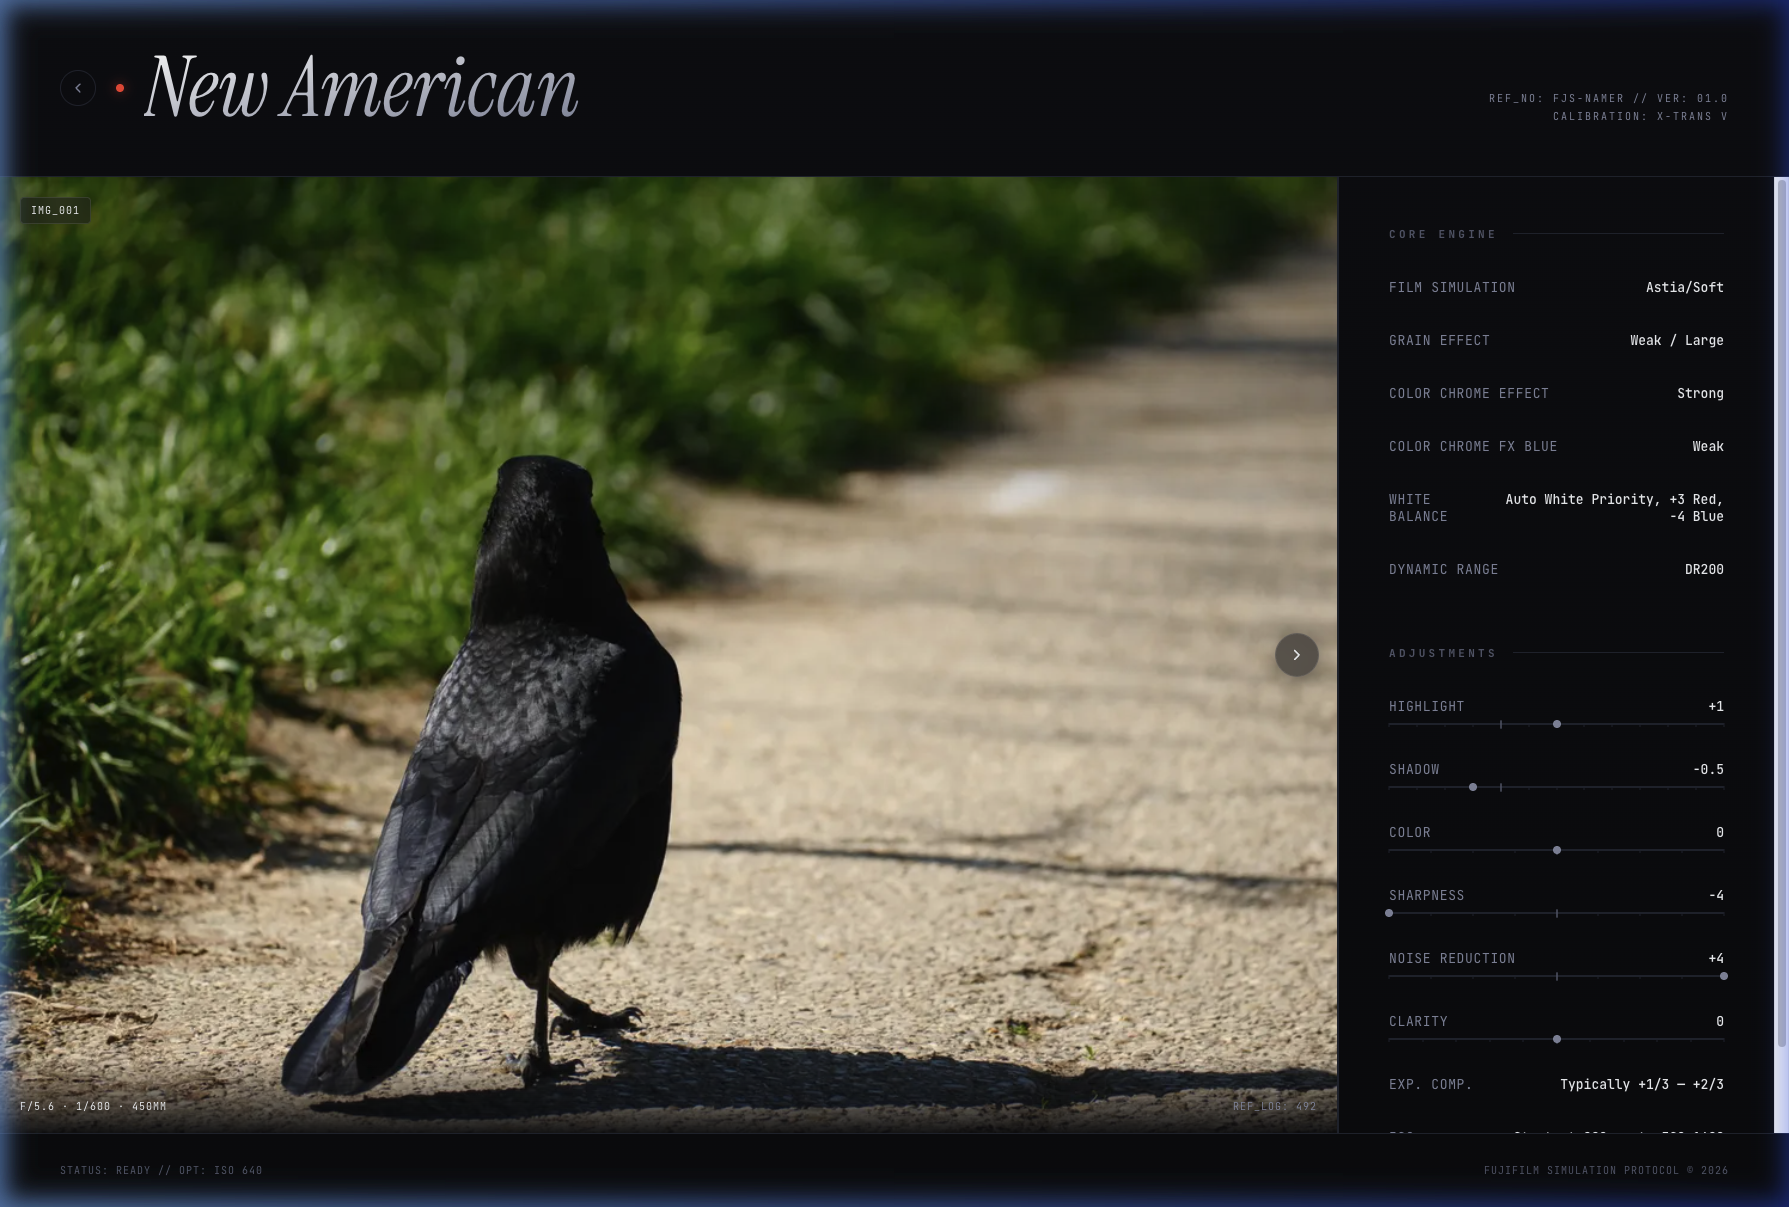
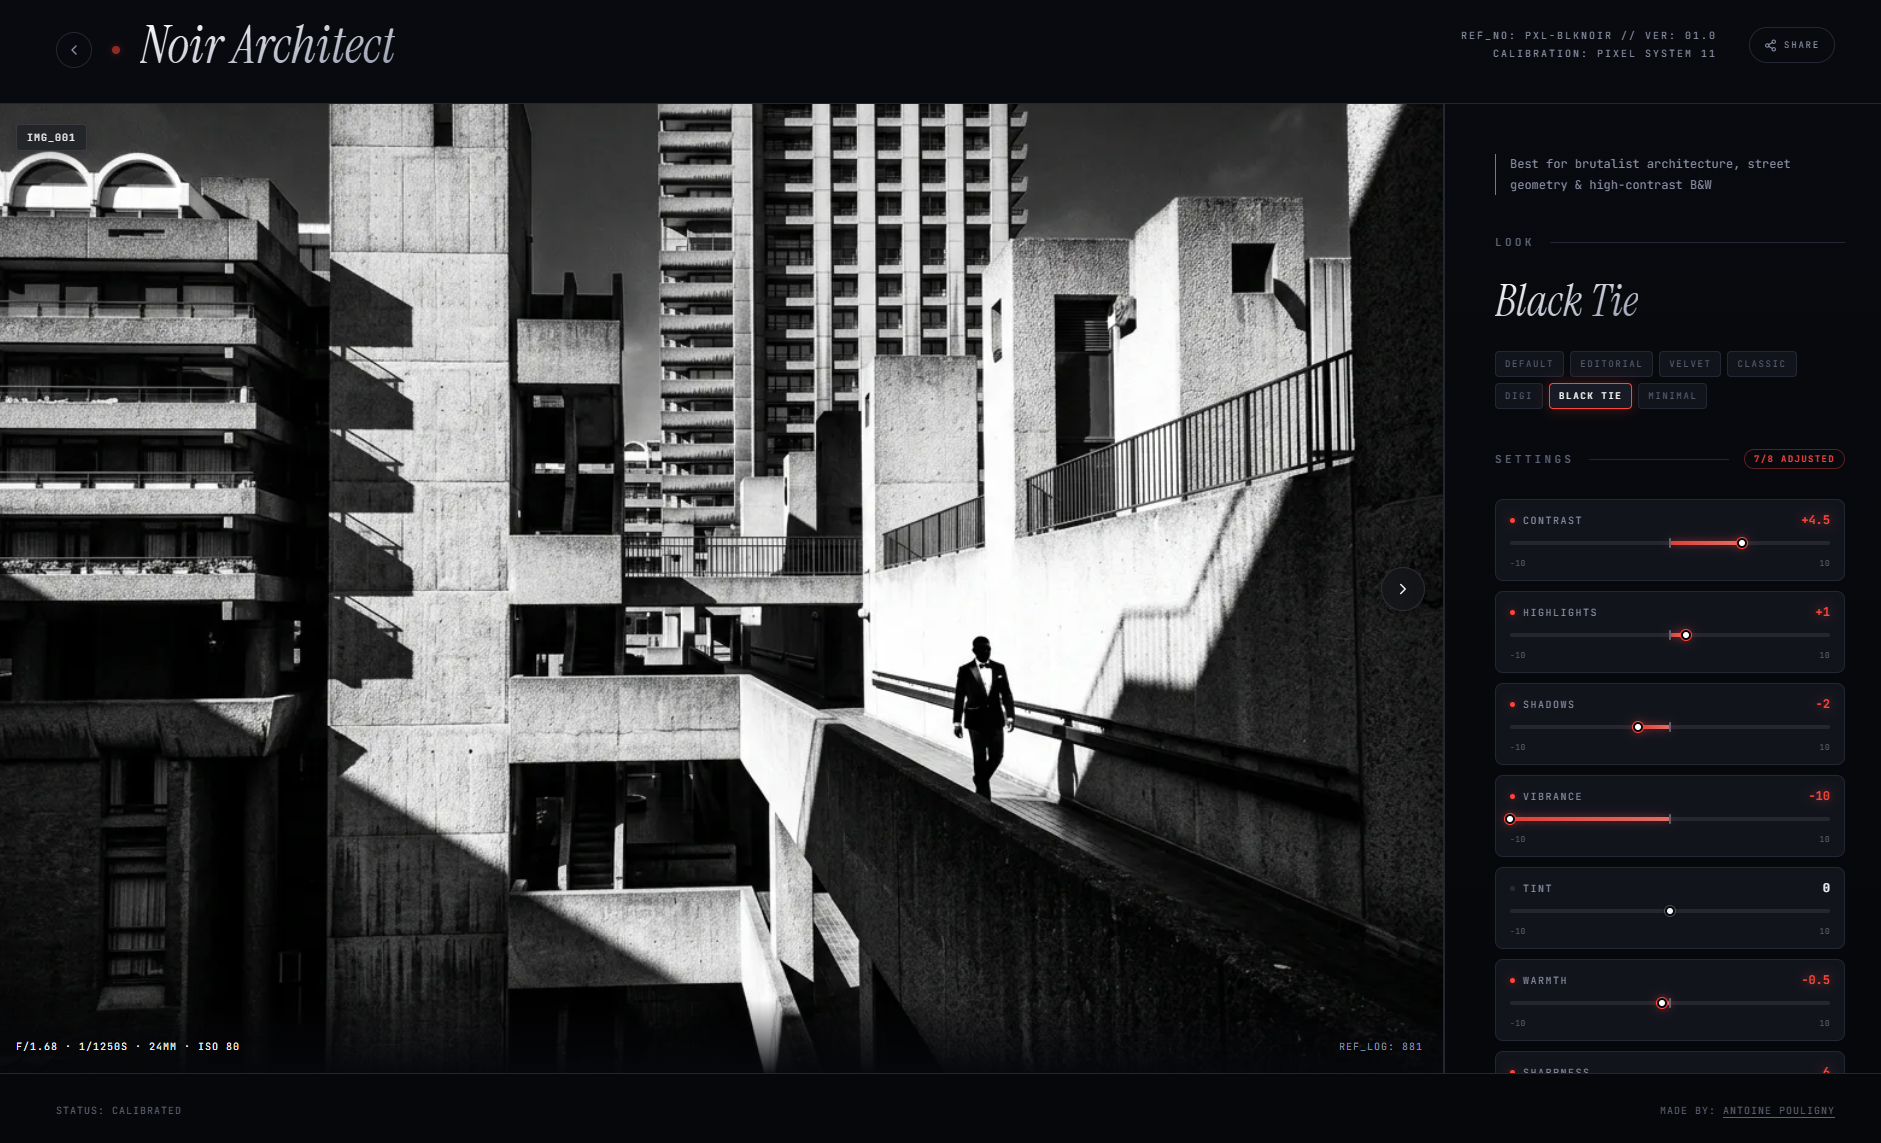
Rework Simulation Recipes into Pixel Looks
The project pivoted from a Fujifilm X-System film simulation archive to
a Pixel 11 look archive at pixelooks.pantoine.com. Retitles the section,
explains the reason for the pivot, and reworks the copy from "recipes"
to "looks" throughout. Updates the cover screenshot.

diff --git a/src/content/projects/vibe-coding-trilogy/index.md b/src/content/projects/vibe-coding-trilogy/index.md
@@ -34,27 +34,29 @@ The main technical feature is the **dynamic background color system**. During th
 
 ---
 
-### 🎞 Simulation Recipes — <a href="https://fujisims.pantoine.com" target="_blank" rel="noopener noreferrer">fujisims.pantoine.com</a>
+### 🎞 Pixel Looks — <a href="https://pixelooks.pantoine.com" target="_blank" rel="noopener noreferrer">pixelooks.pantoine.com</a>
 
-![Preview of fujisims.pantoine.com — a dark, cinematic film protocol archive with serif typography and film simulation recipe cards](/projectfiles/vibe-coding-trilogy/fujisims-cover.png)
+![Preview of pixelooks.pantoine.com — a dark, cinematic look archive with serif typography and full-bleed photo cards](/projectfiles/vibe-coding-trilogy/fujisims-cover.png)
 
-A Fujifilm X-System film simulation archive. Each entry is a custom recipe with specific in-camera settings that define a photographic look — from something close to classic Kodak tones to more modern, desaturated chrome aesthetics. The site presents them as a clean archive with a dark, film-protocol aesthetic.
+A photographic look archive, built around the Pixel 11. Each entry is a *look*: a set of capture and grading settings that define a specific rendering, from a neon digital 90s feel to muted editorial monochrome or straight black-and-white. The site presents them as a numbered archive with a dark, protocol-like aesthetic.
+
+It started life as a Fujifilm X-System film simulation archive. I still have the X-T5, but there are already plenty of Fuji recipe sites out there and I wasn't adding anything to that. The Pixel looks are new and nobody is archiving them yet, so building the tool for those felt a lot more useful.
 
 #### The Technical Side
 
-Built around an Astro content collection for recipes, with a **dark, cinematic design system** built in vanilla CSS. Each recipe card is dynamically generated from a typed Markdown file defining the film base, in-camera adjustments, and a set of sample photographs. EXIF data is extracted at build time using **exifr** and displayed on each photo card within the recipe detail page.
+Built around an Astro content collection for looks, with a **dark, cinematic design system** built in vanilla CSS. Each look card is dynamically generated from a typed Markdown file defining the base rendering, the adjustments, and a set of sample photographs. EXIF data is extracted at build time using **exifr** and displayed on each photo card within the look detail page.
 
 It also features a **full serverless community submission flow**:
 
-1. **Public `/submit` page** — an anonymous form covering recipe parameters and photo uploads without requiring an account.
-2. **Client-side image compression** — canvas-based resizing down from ~25MB camera JPEGs to 1–3MB at 85% quality.
+1. **Public `/submit` page** — an anonymous form covering look parameters and photo uploads without requiring an account.
+2. **Client-side image compression** — canvas-based resizing of large uploads down to 1–3MB at 85% quality.
 3. **Cloudflare Worker** — verifies Cloudflare Turnstile CAPTCHA and automatically opens a GitHub Pull Request with the Markdown and image assets.
 4. **GitHub PR as admin panel** — review and merge directly on GitHub to trigger CI/CD deployment.
 
 #### What's Next
 
-- The community submission system is now live — anyone can submit a recipe without an account.
-- Considering adding a **comparison mode** to show the same scene with different simulations side by side.
+- The community submission system is now live — anyone can submit a look without an account.
+- Considering adding a **comparison mode** to show the same scene with different looks side by side.
 
 ---
 
